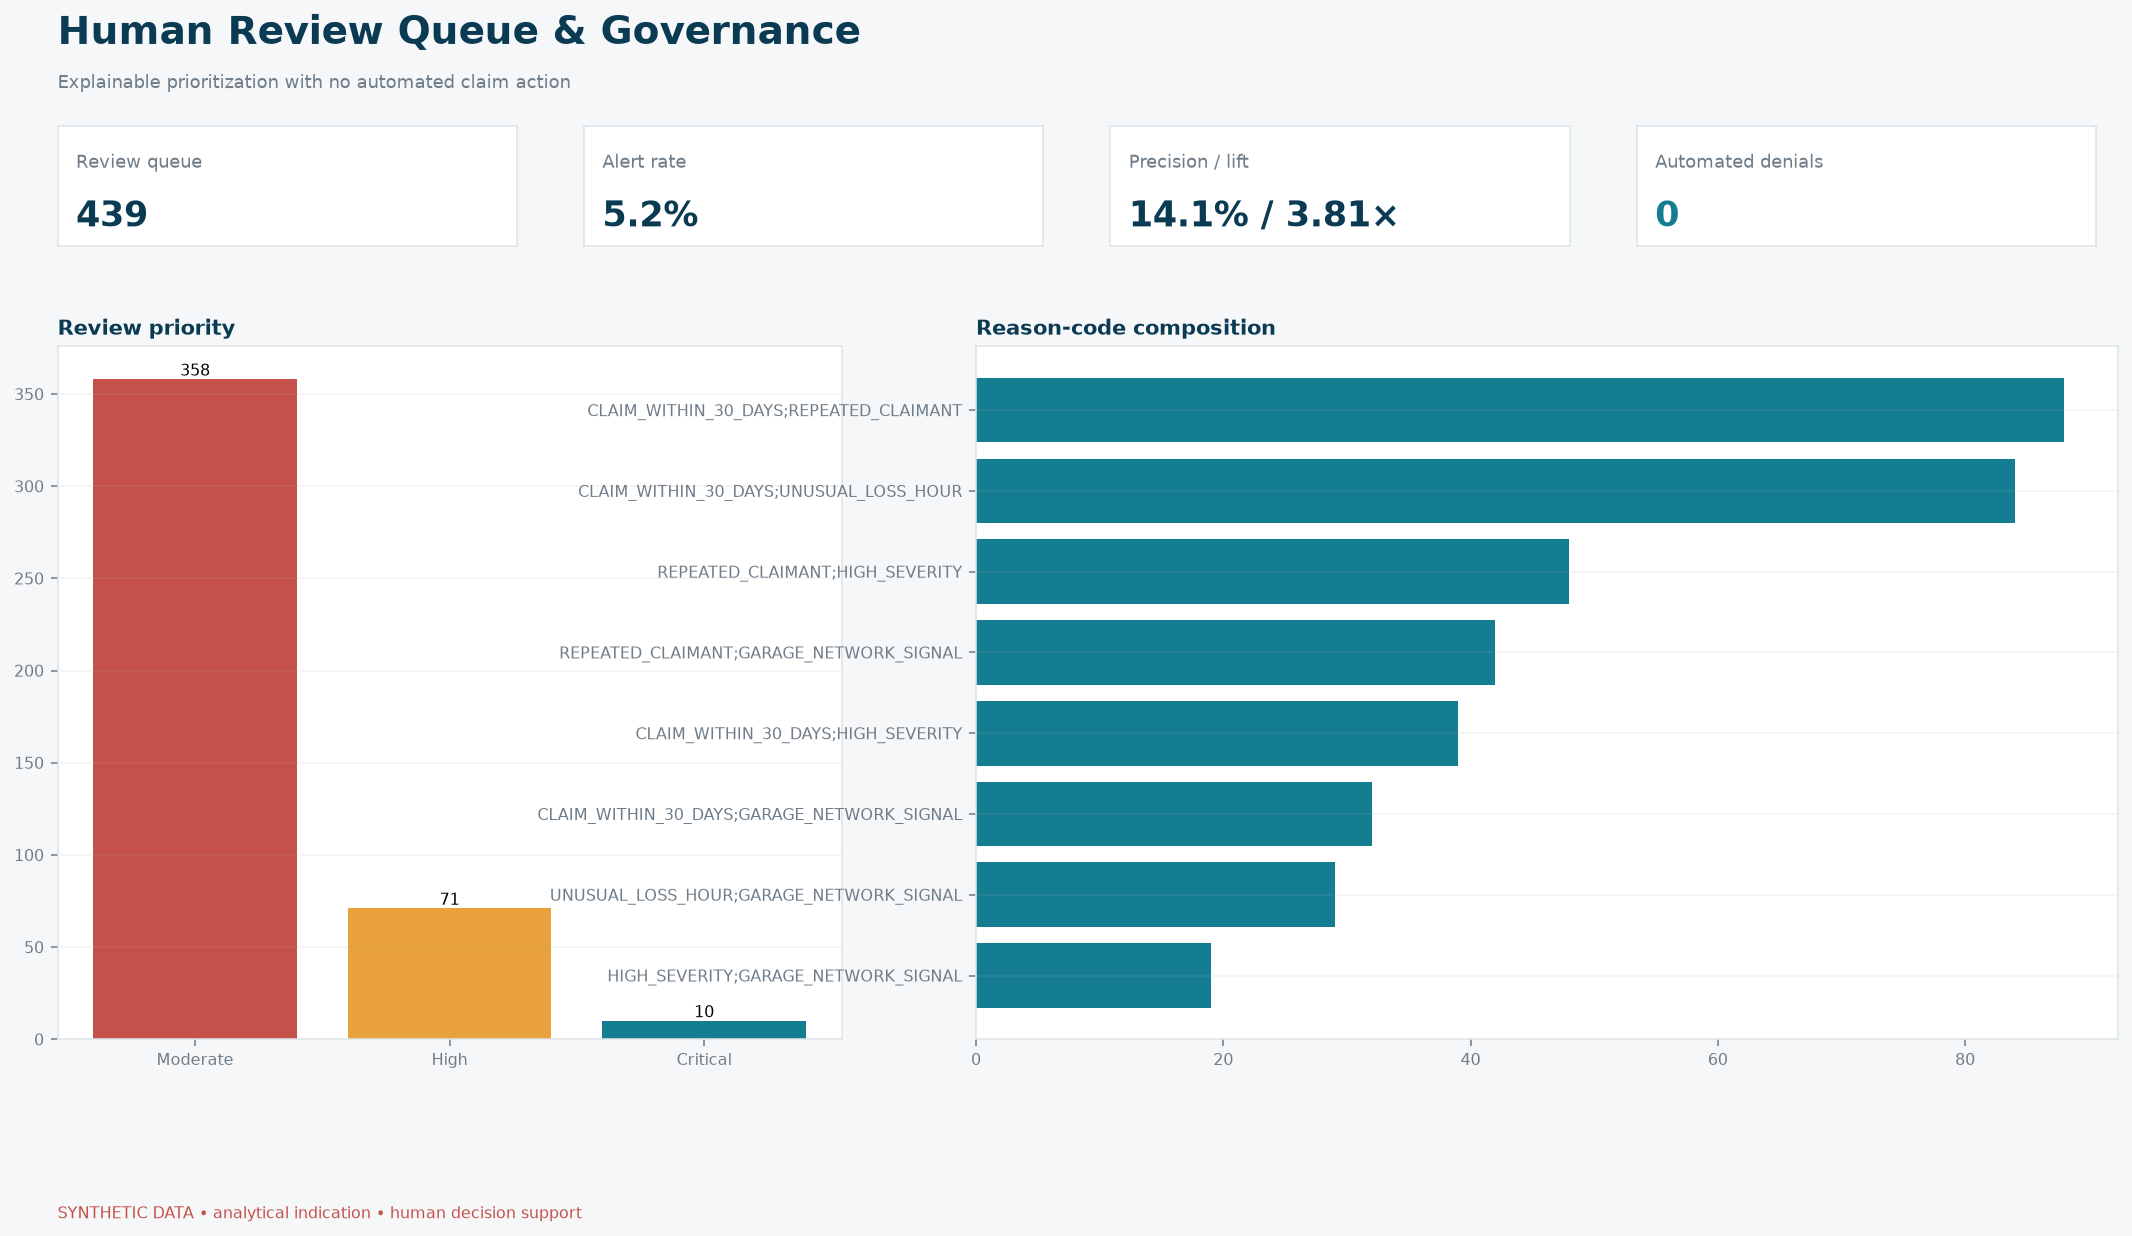
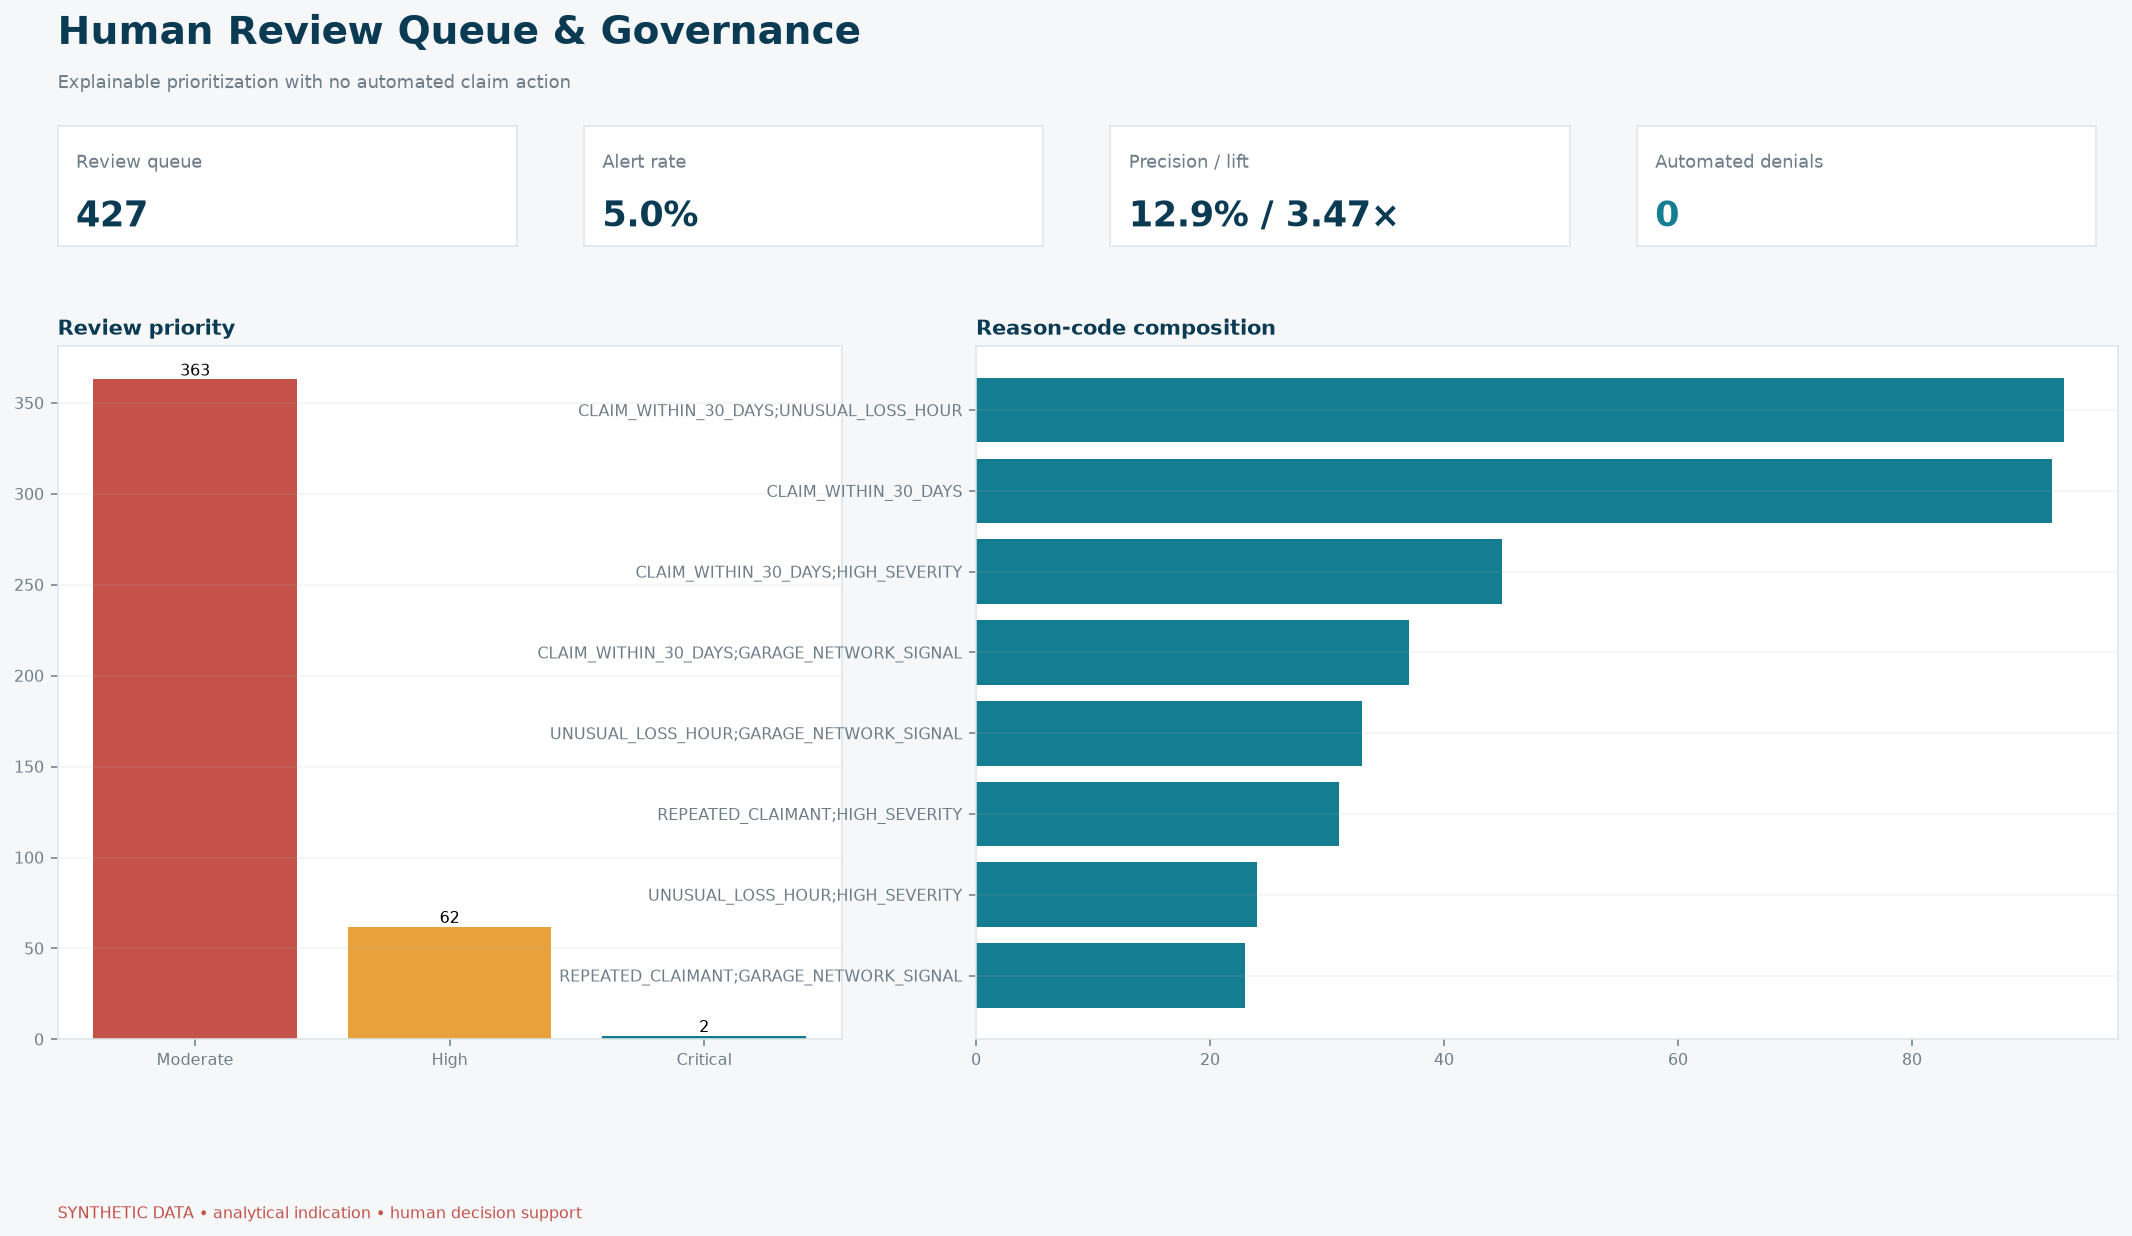
fix(fraud): score repeat claimants on prior claims only; hold the queue to the alert rate (#16)
Two problems in the triage score made the review metrics optimistic:

- REPEATED_CLAIMANT counted the customer's whole claim file, so a first
  claim was flagged because of a claim reported months later. A reviewer
  cannot know that at triage time. The score now uses claims the customer
  had reported strictly earlier (new prior_customer_claims column).
- The queue took every claim scoring at or above the 95th-percentile score.
  Rule scores take few distinct values, so ties at the boundary can admit
  far more than the configured share. Without the look-ahead the queue would
  have jumped to 991 claims (11.6% vs a 5% capacity). The queue is now the
  top ceil(alert_rate * n) claims, with ties broken by incurred amount
  (largest exposure first) and then claim_id.

Result: 427 claims reviewed (5.01%), precision 12.88% (was 14.12%), recall
17.4%, lift 3.47x (was 3.81x). Regenerated the triage metrics, run
manifest, executive summary, Power BI KPI table and review mockup, and the
README figures.

Claude-Session: https://claude.ai/code/session_01HdNCnj87hN9kjtSvF3Vbgh

diff --git a/src/motor_insurance/fraud.py b/src/motor_insurance/fraud.py
@@ -1,5 +1,6 @@
 from __future__ import annotations
 
+import math
 from dataclasses import dataclass
 from typing import Any
 
@@ -31,6 +32,7 @@ def score_claims_for_review(claims: pd.DataFrame, alert_rate: float = 0.05) -> F
     required = {
         "claim_id",
         "customer_id",
+        "report_date",
         "incurred_amount",
         "policy_tenure_days",
         "report_delay_days",
@@ -54,21 +56,32 @@ def score_claims_for_review(claims: pd.DataFrame, alert_rate: float = 0.05) -> F
         raise ValueError("fraud triage monetary and duration inputs cannot be negative")
     if not numeric["loss_hour"].between(0, 23).all():
         raise ValueError("loss_hour must be between 0 and 23")
-    claims = claims.assign(**{column: numeric[column] for column in numeric})
+    report_date = pd.to_datetime(claims["report_date"], errors="coerce")
+    if report_date.isna().any():
+        raise ValueError("report_date must contain only valid dates")
+    claims = claims.assign(
+        **{column: numeric[column] for column in numeric}, report_date=report_date
+    )
     for column in ("garage_watchlist_signal", "fraud_synthetic_truth"):
         values = claims[column]
         if not values.map(lambda value: isinstance(value, (bool, np.bool_))).all():
             raise ValueError(f"{column} must contain only boolean values")
 
     frame = claims.copy()
-    customer_claim_count = frame.groupby("customer_id")["claim_id"].transform("count")
+    # Claims the same customer had already reported when this claim arrived. Counting the
+    # customer's whole claim file let a first claim be flagged because of a claim reported
+    # months later: information the reviewer cannot have at triage time, which inflated the
+    # measured precision and lift.
+    prior_customer_claims = (
+        frame.groupby("customer_id")["report_date"].rank(method="min").astype(int) - 1
+    )
     high_severity_threshold = float(frame["incurred_amount"].quantile(0.95))
     very_high_severity_threshold = float(frame["incurred_amount"].quantile(0.99))
 
     short_tenure = frame["policy_tenure_days"] <= 30
     delayed_report = frame["report_delay_days"] >= 10
     unusual_hour = (frame["loss_hour"] <= 4) | (frame["loss_hour"] >= 23)
-    repeated_customer = customer_claim_count >= 2
+    repeated_customer = prior_customer_claims >= 1
     high_severity = frame["incurred_amount"] >= high_severity_threshold
     very_high_severity = frame["incurred_amount"] >= very_high_severity_threshold
     watchlist_garage = frame["garage_watchlist_signal"]
@@ -82,11 +95,20 @@ def score_claims_for_review(claims: pd.DataFrame, alert_rate: float = 0.05) -> F
         + very_high_severity.astype(int) * 8
         + watchlist_garage.astype(int) * 22
     )
+    frame["prior_customer_claims"] = prior_customer_claims
     frame["triage_score"] = np.clip(score, 0, 100)
-    threshold = float(
-        frame["triage_score"].quantile(max(0.0, 1.0 - alert_rate), interpolation="lower")
+    # Review capacity is a fixed share of claims. Rule scores take few distinct values, so a
+    # plain score cut-off can admit every tied claim and overshoot the queue; ties at the
+    # boundary are broken by incurred amount (largest exposure first), then claim_id.
+    queue_size = math.ceil(alert_rate * len(frame))
+    queue_order = frame.assign(_claim_id=frame["claim_id"].astype(str)).sort_values(
+        ["triage_score", "incurred_amount", "_claim_id"],
+        ascending=[False, False, True],
+        kind="mergesort",
     )
-    frame["review_recommended"] = frame["triage_score"] >= threshold
+    selected = queue_order.index[:queue_size]
+    frame["review_recommended"] = frame.index.isin(selected)
+    threshold = float(frame.loc[selected, "triage_score"].min())
     frame["review_priority"] = pd.cut(
         frame["triage_score"],
         bins=[-1, 19, 39, 59, 100],

diff --git a/tests/test_pipeline_components.py b/tests/test_pipeline_components.py
@@ -182,6 +182,34 @@ class PipelineComponentTests(unittest.TestCase):
         )
         self.assertTrue(result.scored_claims["triage_score"].between(0, 100).all())
 
+    def test_repeated_claimant_uses_only_claims_reported_earlier(self) -> None:
+        claims = self.datasets["claims"].head(3).copy()
+        claims["customer_id"] = ["CUS-A", "CUS-A", "CUS-B"]
+        claims["report_date"] = pd.to_datetime(["2024-03-01", "2024-09-01", "2024-05-01"])
+        claims["policy_tenure_days"] = 200
+        claims["report_delay_days"] = 1
+        claims["loss_hour"] = 12
+        claims["garage_watchlist_signal"] = False
+        result = score_claims_for_review(claims, alert_rate=1.0).scored_claims
+        self.assertEqual(result["prior_customer_claims"].tolist(), [0, 1, 0])
+        repeated = result["reason_codes"].str.contains("REPEATED_CLAIMANT").tolist()
+        # The first CUS-A claim could not know about the claim reported six months later.
+        self.assertEqual(repeated, [False, True, False])
+
+    def test_review_queue_respects_alert_rate_when_scores_tie(self) -> None:
+        claims = self.datasets["claims"].head(20).copy()
+        claims["customer_id"] = [f"CUS-{i}" for i in range(20)]
+        claims["policy_tenure_days"] = 10  # every claim scores the same short-tenure points
+        claims["report_delay_days"] = 1
+        claims["loss_hour"] = 12
+        claims["garage_watchlist_signal"] = False
+        claims["incurred_amount"] = 1_000.0
+        claims.loc[claims.index[7], "incurred_amount"] = 5_000.0
+        result = score_claims_for_review(claims, alert_rate=0.05)
+        self.assertEqual(result.metrics["alert_count"], 1)
+        # The largest exposure wins the single tied review slot.
+        self.assertTrue(result.scored_claims.loc[claims.index[7], "review_recommended"])
+
     def test_fraud_triage_rejects_ambiguous_boolean_signals(self) -> None:
         claims = self.datasets["claims"].head(3).copy()
         for column, value in (("garage_watchlist_signal", "False"), ("fraud_synthetic_truth", 0)):

diff --git a/README.md b/README.md
@@ -49,8 +49,8 @@ date `2025-12-31`.
 | Policies flagged for indicated increase review | 33.59% |
 | Chain Ladder IBNR | TRY 170.58M |
 | Bornhuetter-Ferguson IBNR | TRY 160.00M |
-| Human-review queue | 439 claims / 5.15% |
-| Triage precision / lift | 14.12% / 3.81x |
+| Human-review queue | 427 claims / 5.01% |
+| Triage precision / lift | 12.88% / 3.47x |
 | Automated claim denials | 0 |
 
 The deterministic generator uses stable claim-development mechanics, so the
@@ -118,7 +118,8 @@ evidence.
 
 ### 5. Human-controlled fraud triage
 
-- Short policy tenure, delayed reporting, repeated claimant, unusual loss hour,
+- Short policy tenure, delayed reporting, a prior claim already reported by the same
+  customer (no look-ahead), unusual loss hour,
   high severity, and garage-network reason codes
 - Constrained review queue rather than automated claim action
 - Precision, recall, and lift measured against synthetic truth

diff --git a/README.tr.md b/README.tr.md
@@ -47,8 +47,8 @@ Sonuçlar `20260902` tohumu ve `31.12.2025` değerleme tarihiyle yeniden üretil
 | Prim artışı incelemesine giren poliçe | %33,59 |
 | Chain Ladder IBNR | 170,58 milyon TL |
 | Bornhuetter-Ferguson IBNR | 160,00 milyon TL |
-| İnsan inceleme kuyruğu | 439 hasar / %5,15 |
-| İnceleme hassasiyeti / rastgeleye göre lift | %14,12 / 3,81 kat |
+| İnsan inceleme kuyruğu | 427 hasar / %5,01 |
+| İnceleme hassasiyeti / rastgeleye göre lift | %12,88 / 3,47 kat |
 | Otomatik hasar reddi | 0 |
 
 Chain Ladder'ın sentetik nihai hasara göre toplam hatası yalnızca `%0,01`'dir.

diff --git a/reports/executive_analytical_summary.md b/reports/executive_analytical_summary.md
@@ -28,9 +28,9 @@
 
 ## Human-controlled fraud triage
 
-- Review queue size: 439 claims (5.15%)
-- Precision at review rate: 14.12%
-- Lift versus random review: 3.81x
+- Review queue size: 427 claims (5.01%)
+- Precision at review rate: 12.88%
+- Lift versus random review: 3.47x
 - Automated claim denials: 0
 
 ## Governance boundary
